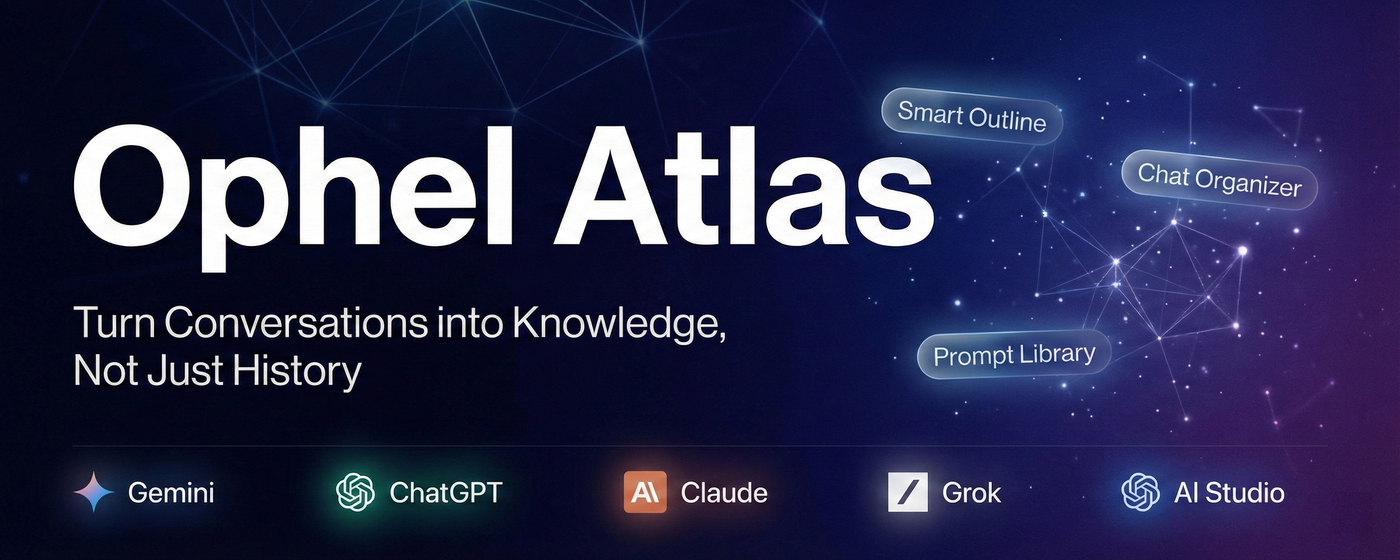
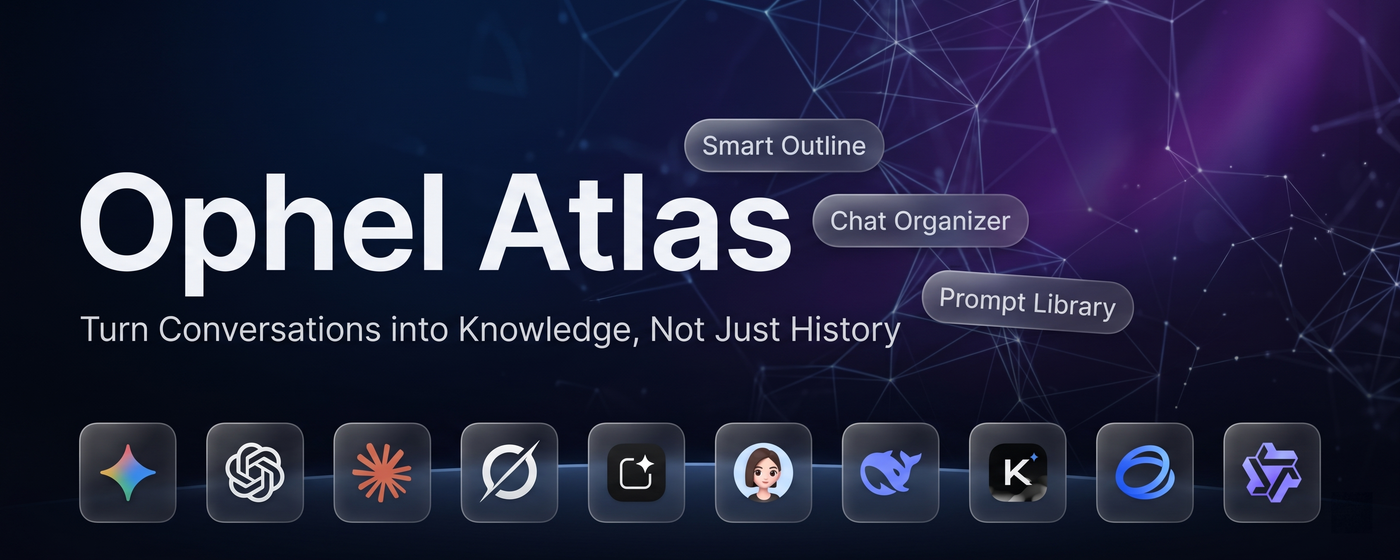
docs: web store promo images

diff --git a/docs/media/store/promo/prompt.md b/docs/media/store/promo/prompt.md
@@ -8,8 +8,8 @@ A professional 440x280 pixel promotional tile for Chrome Extension "Ophel Atlas"
 COMPOSITION:
 
 - Left Side: Bold white text "Ophel Atlas" with a modern abstract eye logo above it. Subtitle "All-In-One AI Assistant".
-- Right Side: A checklist of 3 key features in clean, sharp text: "Smart Outline", "Chat Organizer", "Prompt Manager".
-- Bottom: A horizontal row of 5 uniform glass-style icons (Gemini, ChatGPT, Claude, Grok, AI Studio).
+- Right Side: A checklist of 3 key features in clean, sharp text: "Outline Navigator", "Chat Organizer", "Prompt Manager".
+- Bottom: A horizontal row of 10 uniform glass-style icons (Gemini, ChatGPT, Claude, Grok, AI Studio, Doubao, DeepSeek, Kimi, ChatGLM, Qwen).
 
 STYLE:
 
@@ -23,24 +23,10 @@ STYLE:
 ## marquee-promo
 
 ```markdown
-A cinematic 1400x560 pixel promotional banner for "Ophel Atlas". Premium dark software marketing aesthetic.
+A high-fidelity, photorealistic cinematic marketing banner for the "Ophel Atlas" Chrome Extension, 1400x560 pixels.
 
-COMPOSITION & TEXT:
-
-- CENTER/LEFT FOCUS: Huge, bold, modern white typography: "Ophel Atlas".
-- SLOGAN: Elegant, crisp subtitle text below the title: "Turn Conversations into Knowledge, Not Just History".
-- FEATURE HIGHLIGHTS: Three glass-pill tags floating nearby: "Smart Outline", "Chat Organizer", "Prompt Library".
-
-VISUALS:
-
-- BACKGROUND: Deep cosmic blue and purple gradient space, with subtle "neural network" connecting lines or a "knowledge graph" constellation effect (representing knowledge), fading into a clean dark void.
-- BOTTOM: A glowing alignment of 5 platform icons (Gemini, ChatGPT, Claude, Grok, AI Studio).
-
-STYLE:
-
-- Minimalist but expensive-looking.
-- Volumetric lighting, glassmorphism, 8k resolution, highly detailed, sharp text rendering.
-- Tech-forward but human-centric.
-
---ar 5:2 --v 6.0
+- **Background:** Deep cosmic void, gradient from rich midnight blue to velvety purple aurora, layered with a glowing, intricate neural network pattern of connecting lines and a subtle knowledge graph constellation. Soft volumetric fog and anamorphic lens flares.
+- **Typographic Center/Left:** Huge, perfectly centered-left, modern white sans-serif typography: "Ophel Atlas". Directly below the title, an elegant, crisp subtitle text: "Turn Conversations into Knowledge, Not Just History". Nearby, three floating, frosted-glass-pill tags with beveled edges and precise white text: "Smart Outline", "Chat Organizer", "Prompt Library".
+- **Bottom:** A clean, perfectly aligned horizontal dock containing exactly 10 uniform glassmorphic application icons (Gemini, ChatGPT, Claude, Grok, AI Studio, Doubao, DeepSeek, Kimi, ChatGLM, Qwen), arranged in a subtle crescent glow, fading towards the clean dark edge.
+- **Style:** Minimalist yet expensive-looking, advanced dark grey tones, precise typographic layout, 8k detail, ultra-sharp text rendering, highly harmonious and tech-forward lighting.
 ```
